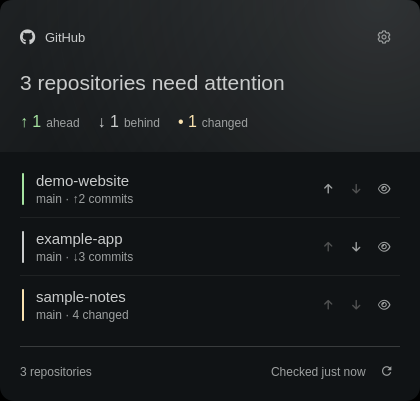
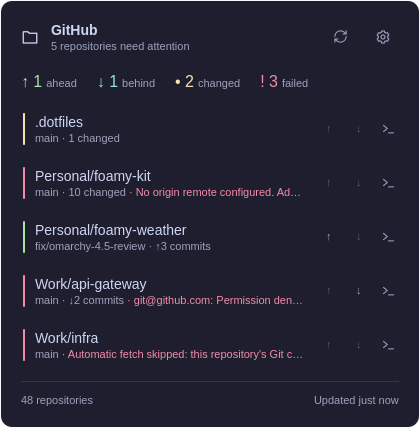
docs(github): document settings, keyboard and trust model; bump to 1.1.0

diff --git a/README.md b/README.md
@@ -6,8 +6,9 @@ Local Git repository status, fetch, push, and pull.
 
 ## Install
 
-Requires Omarchy Quattro, Git, Python 3, Bash, `jq`, and `wl-clipboard`. Opening a repository
-from the eye button also requires `lazygit` and Omarchy's terminal launcher.
+Requires Omarchy 4.5 (also loads on 4.0.6, in English), Git, Python 3, Bash,
+`jq` and `wl-clipboard`. Opening a repository requires `lazygit` and Omarchy's
+terminal launcher; **Browse for folder** uses `qml6` and `hyprctl`.
 
 ```sh
 omarchy plugin add https://github.com/foamrider/foamy-github.git --enable
@@ -15,49 +16,93 @@ omarchy plugin add https://github.com/foamrider/foamy-github.git --enable
 
 ## Use
 
-1. Left-click the widget, open the cog, and add your repository folders.
-2. Choose the folder search depth, and refresh intervals.
-3. Use refresh (or middle-click the widget) to fetch remotes and update status.
-4. Use a repository's arrows to push or pull, or its eye button to open lazygit.
+1. Left-click the widget, open **Settings** (cog or `s`) and add your repository folders.
+2. Choose how many levels deep to search each folder, and the refresh intervals.
+3. Refresh (header button, `r`, or middle-click the widget) fetches remotes and updates status.
+4. A repository's arrows push or pull; the terminal button (or Enter) opens it in lazygit.
 
-**Detect changes automatically (Recommended)** is enabled by default. Local
-changes update through filesystem notifications. Changes saved close together
-are grouped over 300 ms. Only affected repositories are checked. Ignored
-dependency/build directories and Git object stores are excluded from monitoring;
-Git worktrees and newly created repositories within the configured scan depth
-are supported. Remote fetching still uses its separate timer.
+The popup lists repositories that need attention: ahead, behind, changed, or
+whose last fetch failed. A failed fetch is shown on the repository's row, in
+red after its status line (for example `main · 10 changed · No origin remote
+configured…`); hover it for the full message.
 
-If monitoring fails (for example, the system watch limit is reached), the panel
-reports it and uses **Fallback interval** until monitoring recovers. Turning off
-automatic change detection stops the watcher and relabels that setting to
-**Interval**, which controls regular polling. **Disabled** turns off polling in
-either mode; automatic change detection still works when enabled. Opening the
-panel or completing a Git action still refreshes status, and the remote fetch
-schedule remains separate. No extra package is required.
+Keyboard: arrows or `hjkl` move one cursor through the rows, Refresh and
+Settings (hovering moves the same cursor); Enter activates; `r` refreshes;
+`s` opens Settings; Esc closes (or leaves Settings); Tab and Shift+Tab move to
+the next bar panel.
 
-Uses your existing Git authentication. Pull requires a clean, non-diverged
-branch with an upstream and uses fast-forward only. Works with any Git host.
+## Settings
 
-Repository checks stream Git status without retaining file lists. Completed
-checks show exact Git status entry counts (untracked directories count as one
-entry). A timeout, resource limit, or Git error shows **Status unavailable** for
-that repository and disables push/pull until a fresh check succeeds. Other
-repositories continue to update. An incomplete folder scan reports an error;
-it never silently lists a subset as a successful scan.
+| Setting | Default | |
+|---|---|---|
+| Repository folders | none | Folders to search, each with a search depth of 0 to 5 levels (up to 32 folders) |
+| Detect changes automatically | on | Updates through filesystem notifications (inotify); recommended |
+| Refresh every | 30 seconds | Timed refresh; with automatic detection it is only the fallback. **Off** turns polling off |
+| Fetch remotes every | 15 minutes | Background `git fetch` of every repository |
+| Trust repository config | off | See [Trust model](#trust-model) |
 
-To keep background work bounded, checks allow 16 MiB of Git output and 15 seconds
-per status command, with at most four commands running concurrently per helper.
-Folder discovery allows 256 repositories and 100,000 directory entries within
-five seconds per traversal. Monitoring allows 8,192 watches and 32,768
-repository-to-directory associations. Oversized monitoring plans use the normal
-fallback interval; choose narrower folders, reduce scan depth, or disable
-automatic detection if a limit persists. Shell messages and cached sync state
-are limited to 8 MiB. These limits bound plugin buffers and work; Git itself
-still needs memory to inspect its index.
+Settings save in place (`bar.shell.updateEntryInline`, else `omarchy bar set`).
 
-Repository-folder paste reads at most 16 KiB and has a two-second deadline.
-Oversized or unavailable clipboard text leaves the field unchanged and shows an
-error. Keyboard paste, the edit menu, and middle-click use the same bounded reader.
+**Detect changes automatically** groups changes saved close together over
+300 ms and checks only the affected repositories. Ignored dependency/build
+directories and Git object stores aren't watched; Git worktrees and new
+repositories within the search depth are picked up. Opening the popup doesn't
+rescan while monitoring is live. If monitoring fails (for example, the system
+watch limit is reached), the panel says so, uses the timed refresh, and
+retries monitoring after 30 seconds, then 1, 2, 4… up to 30 minutes while it
+keeps failing.
+
+On Omarchy 4.5, which draws a bar on every monitor, the status helper,
+filesystem watcher, timers and IPC target run once per shell, not once per
+monitor.
+
+## Trust model
+
+The widget runs Git by itself, in every repository it finds: status on every
+change and a fetch on a timer. A repository's own Git config (`.git/config`
+and anything it includes) can name commands Git executes, so a repository
+unpacked from an untrusted archive into one of your folders could otherwise
+run code just by being there. By default:
+
+- **Status checks** run with `core.fsmonitor`, the untracked cache and hooks
+  turned off, ignore clean/smudge filters defined by the repository (your
+  global filters, such as Git LFS, still apply), and don't look inside
+  submodule worktrees.
+- **Automatic fetches** (the timer and the Refresh button) also turn off hooks,
+  the `ext::` transport and submodule recursion, and never prompt: no askpass
+  window and SSH in batch mode, so a locked key fails quietly instead of
+  asking every 15 minutes. A repository whose own config sets a command Git
+  would run for a fetch is skipped, with a message on its row: anything other
+  than a plain `ssh -i key`-style `core.sshCommand` or a stock credential
+  helper (`store`, `cache`, `libsecret`, `manager`, …), or `core.gitProxy`,
+  `protocol.*`, `remote.*.uploadpack`/`vcs`. Fetch those in lazygit.
+- **Push and pull** are explicit actions on one repository and run with its
+  normal Git config and hooks, exactly like `git push` in a terminal.
+
+Your global Git config, credential helpers (for example `gh auth
+git-credential`) and SSH agent keep working. Your global `core.hooksPath`
+hooks don't run for status checks and automatic fetches.
+
+Turn on **Trust repository config** only if you trust every repository in
+these folders: the widget then uses each repository's config as is, like
+before 1.1.
+
+## Limits
+
+Repository checks stream Git status without retaining file lists. A timeout,
+resource limit or Git error shows **Status unavailable** for that repository
+and disables push/pull until a fresh check succeeds; other repositories keep
+updating. An incomplete folder scan reports an error; it never silently lists a
+subset.
+
+Checks allow 16 MiB of Git output and 15 seconds per status command, with at
+most four commands at once. Folder discovery allows 256 repositories and
+100,000 directory entries within five seconds per traversal. Monitoring allows
+8,192 watches and 32,768 repository-to-directory associations. Shell messages
+and cached sync state are limited to 8 MiB. Pull requires a clean, non-diverged
+branch with an upstream and is fast-forward only. Works with any Git host.
+
+Repository-folder paste reads at most 16 KiB with a two-second deadline.
 
 ## Remove
 
@@ -65,7 +110,8 @@ error. Keyboard paste, the edit menu, and middle-click use the same bounded read
 omarchy plugin remove foamy.github
 ```
 
-Removal stops repository monitoring and scheduled fetches. Your repositories,
+Removal stops repository monitoring and scheduled fetches (the helpers stop
+their Git processes when the shell stops them). Your repositories,
 Git configuration, authentication, and cached status remain on disk.
 
 Omarchy manages the plugin entry in `shell.json`. Packages and data outside
@@ -78,6 +124,22 @@ Licensed under [MIT](LICENSE), with [Omarchy](LICENSE-OMARCHY) and
 
 Provided **as is**, without warranty or guaranteed support. Use at your own risk.
 
-Language follows **Omarchy → Setup → Language** on Omarchy 4.5. Plugin language overrides are no longer used. Omarchy 4.0 displays the plugin in English. Missing translations fall back to English.
+## Language
 
-Translation checks: `python3 tests/i18n-runtime.py` uses the installed shell. Set `OMARCHY_PATH` to a 4.5 source tree to check live language switching against that version.
+Language follows **Omarchy → Setup → Language** on Omarchy 4.5 (English and
+Norwegian catalogs; other languages fall back to English). Omarchy 4.0 shows
+the plugin in English.
+
+## Development
+
+```sh
+node --test tests/model.test.js tests/preferences.test.js && node tests/i18n.test.cjs
+python3 -m unittest discover -s tests -p 'test_*.py'
+bash tests/kit-check.sh
+python3 tests/i18n-runtime.py                     # OMARCHY_PATH=<4.5 tree> for 4.5
+python3 tests/runtime-panel.py                     # offscreen, needs foamy-kit
+~/GitHub/Personal/foamy-kit/preview/render.py . --host both
+```
+
+Shared components in `kit/` come from [foamy-kit](https://github.com/foamrider/foamy-kit);
+don't edit them here.
